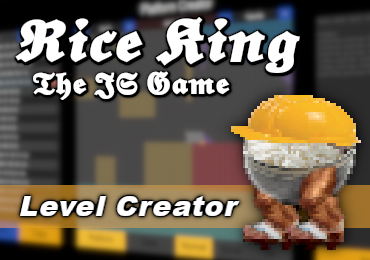
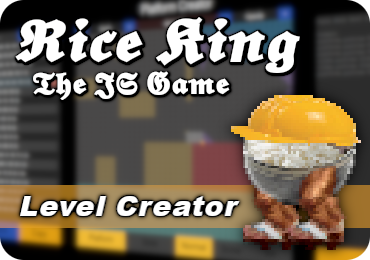
Update: README.md content

diff --git a/README.md b/README.md
@@ -1,5 +1,5 @@
 <div align="center">
-  <img src="ReadMeFiles/riceKing_image.png" width="40%" style="border-radius: 24px">
+  <img src="ReadMeFiles/riceKing_image.png" width="40%">
 </div>
 
 # Rice King
@@ -16,7 +16,7 @@ Files and the code itself look kinda messy but please bear in mind that it was m
 
 > `Also check out:`
 >
-> <img src="ReadMeFiles/riceKingLevelCreator_image.png" target="_blank" height="120px" style="border-radius: 16px">
+> <img src="ReadMeFiles/riceKingLevelCreator_image.png" target="_blank" height="120px">
 
 </a>
 <br/>
